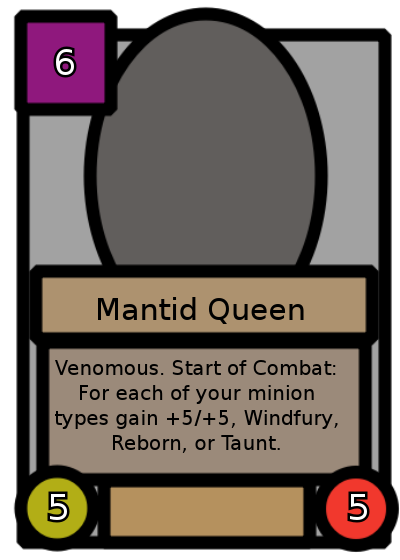
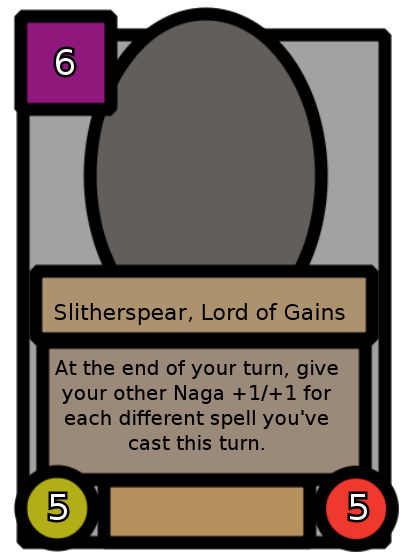
scale down card name if it goes out of bounds

Changed region(s): [[0.12, 0.6375, 0.84, 0.8196], [0.12, 0.5161, 0.87, 0.5768]]

diff --git a/server/generate/generatePhImage.js b/server/generate/generatePhImage.js
@@ -19,6 +19,23 @@ function drawNumber(ctx, number, x, y){
 
 }
 
+function drawName(ctx, name, x, y) {
+    ctx.fillStyle = 'black';
+    ctx.textAlign = 'center';
+    let fontSize = 30;
+    let maxWidth = 300; // Maximum width for card name
+    let fontName = "Sans";
+    drawTextWithScaling(ctx, name, x, y, maxWidth, fontSize, fontName);
+}
+
+function drawTextWithScaling(ctx, text, x, y, maxWidth, fontSize, fontName) {
+    while (ctx.measureText(text).width > maxWidth && fontSize > 10) {
+        fontSize--;
+        ctx.font = `${fontSize}px ${fontName}`;
+    }
+    ctx.fillText(text, x, y);
+}
+
 async function generateHearthstoneCard(cardData) {
     const canvas = createCanvas(400, 560);
     const ctx = canvas.getContext('2d');
@@ -32,28 +49,21 @@ async function generateHearthstoneCard(cardData) {
 
     // attack
     drawNumber(ctx, cardData.attack, 58, 520);
-    // ctx.fillStyle = 'black';
-    // ctx.font = '24px Sans';
-    // ctx.fillText(`${cardData.attack}`, 55, 520);
+
 
     // health
     drawNumber(ctx, cardData.health, 358, 520);
-    // ctx.fillStyle = 'black';
-    // ctx.font = '24px Sans';
-    // ctx.fillText(`${cardData.health}`, 355, 520);
+
 
 
     // Draw card name
-    ctx.fillStyle = 'black';
-    ctx.font = '30px Sans';
-    ctx.textAlign = 'center';
-    ctx.fillText(cardData.name, canvas.width / 2, 320);
+    drawName(ctx, cardData.name, canvas.width / 2, 320);
+
 
     // Draw card text
     ctx.fillStyle = 'black';
     ctx.font = '20px Sans';
     ctx.textAlign = 'center';
-    
 
     const maxWidth = 300; // Maximum width for text on the card
     let words = cardData.text.split(' ');
@@ -89,12 +99,12 @@ async function generateHearthstoneCard(cardData) {
 
 // Example card data
 const cardData = {
-    name: 'Mantid Queen',
+    name: 'Slitherspear, Lord of Gains',
     tier: 6,
-    text: 'Venomous. Start of Combat: For each of your minion types gain +5/+5, Windfury, Reborn, or Taunt.',
+    text: "At the end of your turn, give your other Naga +1/+1 for each different spell you've cast this turn.",
     attack: 5,
     health: 5,
-    races: ["murloc", "quilboar"]
+    races: ["naga"]
 };
 
 generateHearthstoneCard(cardData);
